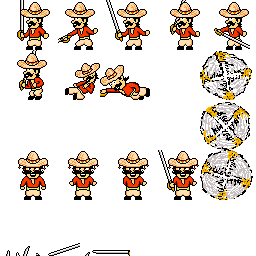
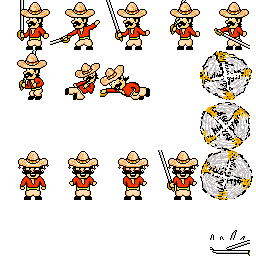
fixed pattern number generator, more amigo animations

diff --git a/mcdiddy/mod.c b/mcdiddy/mod.c
@@ -293,6 +293,8 @@ void mod_draw(SDL_Surface *screen,int objid,OBJ_t *o) {
       break;
     }
     case OBJT_AMIGO: {
+      typedef struct { int x, y, w, h, dx, dy; } XSPR;
+      XSPR tip = {0}; // extra sprite for tip of sword
       AMIGO_t *am = o->data;
       int w = 50;
       int h = 50;
@@ -300,24 +302,38 @@ void mod_draw(SDL_Surface *screen,int objid,OBJ_t *o) {
       int z = am->pos.y-32 + am->hull[1].y;
       switch( am->state ) {
         case AMIGO_HELLO:
-          x = (am->statetime/30) * 50;
+          x = (am->statetime/30) * 50; //                       x   y  w  h  dx  dy
+          if(      am->statetime<30 ) { x =   0; tip = (XSPR){0}; }
+          else if( am->statetime<60 ) { x =  50; tip = (XSPR){0}; }
+          else if( am->statetime<90 ) { x = 100; tip = (XSPR){0}; }
+          else                        { x = 150; tip = (XSPR){220,230,10,10,  8,-10}; }
           y = 150;
           break;
         case AMIGO_COOLDOWN:
+          tip = (XSPR){210,230,10,10, 20,-10};
           break;
         case AMIGO_JUMP:
+          tip = (XSPR){240,230,10,10, 33,-10};
           x = 0;
           y = 50;
           break;
-        case AMIGO_SLASH:
+        case AMIGO_SLASH: //                                    x   y  w  h  dx  dy
+          if(      am->statetime<20 ) { x =  50; tip = (XSPR){220,240,30,10,-30, 42}; }
+          else if( am->statetime<25 ) { x = 100; tip = (XSPR){220,230,10,10,  6,-10}; }
+          else                        { x = 150; tip = (XSPR){230,230,10,10, 32,-10}; }
           break;
         case AMIGO_FLYKICK:
           break;
         case AMIGO_DASH:
+          tip = (XSPR){210,250,40, 6,-40, 40};
+          x = 100;
+          y = 50;
           break;
       }
-      SJGL_BlitScaled(textures[TEX_AMIGO], &(SDL_Rect){x,y,w,h},
-                                           &(SDL_Rect){am->pos.x-35,am->pos.y-32,0,0}, scale, z);
+      SJGL_BlitScaled(textures[TEX_AMIGO], &(SDL_Rect){     x,     y,     w,     h },
+                                           &(SDL_Rect){ am->pos.x-35,        am->pos.y-32,        0, 0 }, scale, z);
+      SJGL_BlitScaled(textures[TEX_AMIGO], &(SDL_Rect){ tip.x, tip.y, tip.w, tip.h },
+                                           &(SDL_Rect){ am->pos.x-35+tip.dx, am->pos.y-32+tip.dy, 0, 0 }, scale, z);
       break;
     }
   }
@@ -623,6 +639,10 @@ void mod_adv(Uint32 objid,Uint32 a,Uint32 b,OBJ_t *oa,OBJ_t *ob) {
     case OBJT_AMIGO:
       assert(ob->size==sizeof(AMIGO_t));
       AMIGO_t *am = ob->data;
+      float amigo_gravity = 0.6f;
+//TEMP! Wrap amigo since he can mostly only go left
+if( am->pos.x <         20.0f ) am->pos.x += NATIVEW-41.0f;
+if( am->pos.x > NATIVEW-20.0f ) am->pos.x -= NATIVEW-41.0f;
       spatt(hotfr);
       switch( am->state ) {
         case AMIGO_HELLO:
@@ -636,12 +656,15 @@ void mod_adv(Uint32 objid,Uint32 a,Uint32 b,OBJ_t *oa,OBJ_t *ob) {
             am->vel.x = 0.0f;
             if( am->statetime>30 ) {
               am->statetime = 0;
-              switch( patt()%5 ) {
+              switch( patt()%8 ) {
                 case 0: am->state = AMIGO_JUMP; am->vel.y -= 10.0f;                    break;
                 case 1: am->state = AMIGO_JUMP; am->vel.y -= 10.0f; am->vel.x =  4.0f; break;
                 case 2: am->state = AMIGO_JUMP; am->vel.y -= 10.0f; am->vel.x = -4.0f; break;
                 case 3: am->state = AMIGO_JUMP; am->vel.y -=  8.0f; am->vel.x =  4.0f; break;
                 case 4: am->state = AMIGO_JUMP; am->vel.y -=  8.0f; am->vel.x = -4.0f; break;
+                case 5: am->state = AMIGO_SLASH;                    am->vel.x = -0.1f; break;
+                case 6: am->state = AMIGO_FLYKICK;                                     break;
+                case 7: am->state = AMIGO_DASH;                     am->vel.x =-10.0f; break;
               }
             }
           }
@@ -653,14 +676,29 @@ void mod_adv(Uint32 objid,Uint32 a,Uint32 b,OBJ_t *oa,OBJ_t *ob) {
           }
           break;
         case AMIGO_SLASH:
+          am->vel.x += 0.05f;
+          if( am->vel.x > 0.0f )
+            am->vel.x = 0.0f;
+          if( am->statetime>30 ) {
+            am->state = AMIGO_COOLDOWN;
+            am->statetime = 0;
+          }
           break;
         case AMIGO_FLYKICK:
+          if( am->statetime>1 ) {
+            am->state = AMIGO_COOLDOWN;
+            am->statetime = 0;
+          }
           break;
         case AMIGO_DASH:
+          if( am->statetime>50 ) {
+            am->state = AMIGO_COOLDOWN;
+            am->statetime = 0;
+          }
           break;
       }
       am->statetime++;
-      am->vel.y += 0.6f; //gravity
+      am->vel.y += amigo_gravity; //gravity
       break;
   } //end switch ob->type
   #undef MKOBJ

diff --git a/engine/patt.h b/engine/patt.h
@@ -1,17 +1,17 @@
 #ifndef PATT_H_
 #define PATT_H_
 
-static unsigned long long a;
+static uint32_t a = 0x8675309;
 
-inline void spatt(unsigned long long seed)
+inline uint32_t patt()
 {
-  a = seed;
+  a = ((uint64_t)a * 0x10A860C1) % 0xFFFFFFFF;
+  return a;
 }
 
-inline unsigned int patt()
+inline void spatt(uint32_t seed)
 {
-  a = a * 7212336353ULL + 8963315421273233617ULL;
-  return (unsigned int)a;
+  a = seed % 0xFFFFFFFF;
 }
 
 #endif
